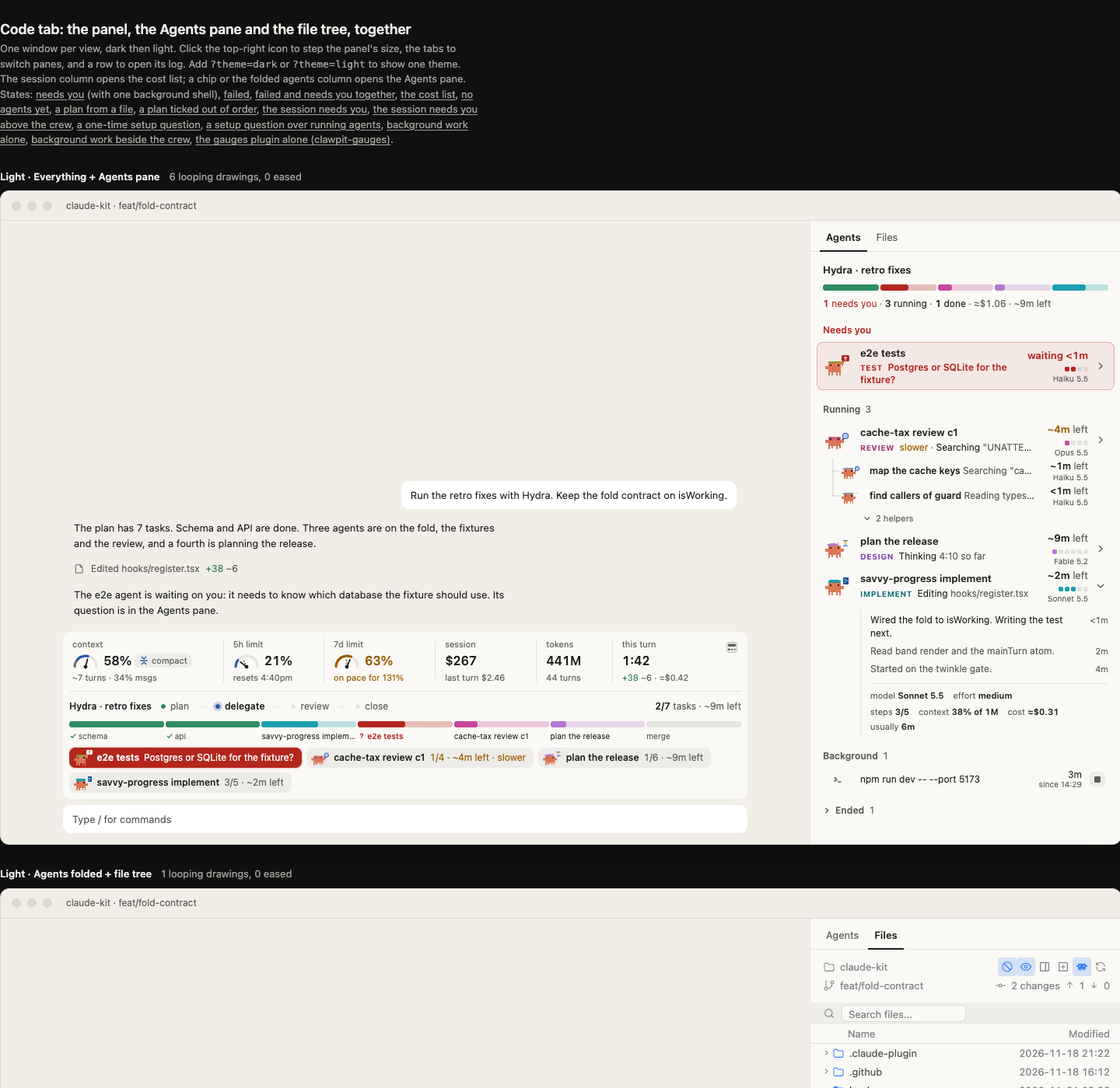
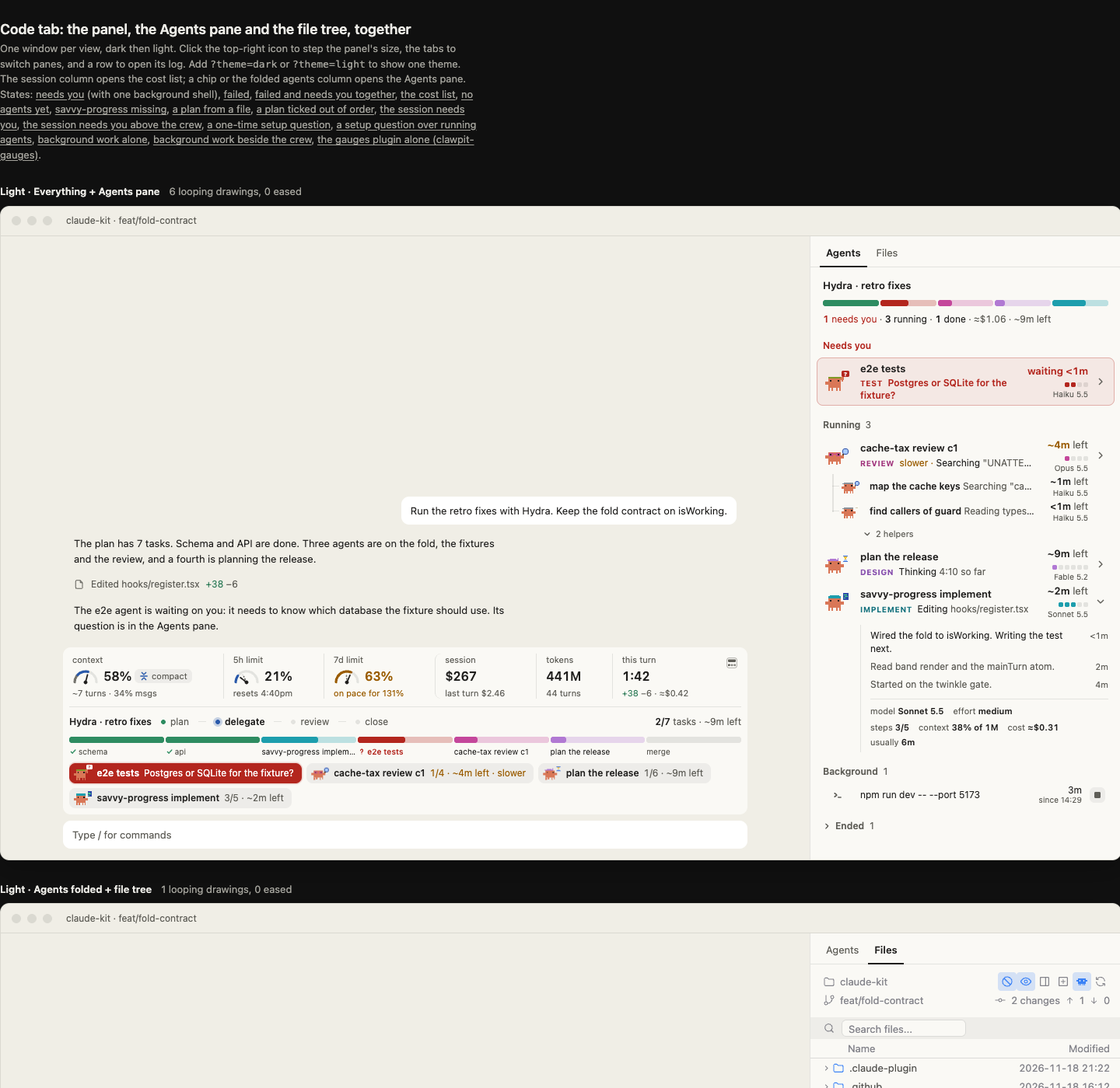
pane: say how to install savvy-progress when it is missing

diff --git a/design/mockups-all.html b/design/mockups-all.html
@@ -196,7 +196,7 @@ body{margin:0;background:var(--page);color:var(--ink);font:14px/1.5 -apple-syste
 /* BUILD Empty pane: the title in fg, the hint muted */
 .empty{display:flex;flex-direction:column;align-items:center;padding:24px 0;font-size:13px}
 .ofq{display:flex;flex-direction:column;gap:4px;height:56px;box-sizing:border-box;padding:6px 8px;border-radius:8px;background:var(--wash);font-size:12px;line-height:16px}.ofq .m{font-size:11px}.ofb{display:flex;gap:8px;margin:6px 0 0}.ofb button{all:unset;height:24px;border-radius:6px;background:var(--wash);color:var(--fg);font-size:12px;font-weight:600;text-align:center;cursor:pointer}.ofb button:first-child{width:42px}.ofb button+button{width:38px}
-.empty .m{font-size:12px}
+.empty .m{font-size:12px}.empty code{font:11px/16px ui-monospace,SFMono-Regular,Menlo,monospace;margin-top:2px;text-align:center}
 /* ALIGN F12: specimen sheet for the failed chip's timer and the A/B row. A legend, not a surface of the app. */
 .spec{width:1440px;margin:0 auto;box-sizing:border-box;border-radius:12px;border:1px solid var(--tr);background:var(--g);color:var(--fg);padding:12px;display:grid;grid-template-columns:repeat(2,minmax(0,1fr));gap:12px;font:13px/18px -apple-system,BlinkMacSystemFont,system-ui,sans-serif}
 .spec ::selection{background:color-mix(in srgb,var(--ac) 35%,transparent)}
@@ -232,7 +232,7 @@ body{margin:0;background:var(--page);color:var(--ink);font:14px/1.5 -apple-syste
 <body>
 <div class="doc">
 <h1>Code tab: the panel, the Agents pane and the file tree, together</h1>
-<p>One window per view, dark then light. Click the top-right icon to step the panel's size, the tabs to switch panes, and a row to open its log. Add <code>?theme=dark</code> or <code>?theme=light</code> to show one theme. The session column opens the cost list; a chip or the folded agents column opens the Agents pane. States: <a href="?">needs you</a> (with one background shell), <a href="?state=failed">failed</a>, <a href="?state=both">failed and needs you together</a>, <a href="?state=costs">the cost list</a>, <a href="?state=empty">no agents yet</a>, <a href="?state=fileplan">a plan from a file</a>, <a href="?state=outoforder">a plan ticked out of order</a>, <a href="?state=session">the session needs you</a>, <a href="?state=sessionCrew">the session needs you above the crew</a>, <a href="?state=offer">a one-time setup question</a>, <a href="?state=offerCrew">a setup question over running agents</a>, <a href="?state=background">background work alone</a>, <a href="?state=backgroundCrew">background work beside the crew</a>, <a href="?state=gauges">the gauges plugin alone (clawpit-gauges)</a>.</p>
+<p>One window per view, dark then light. Click the top-right icon to step the panel's size, the tabs to switch panes, and a row to open its log. Add <code>?theme=dark</code> or <code>?theme=light</code> to show one theme. The session column opens the cost list; a chip or the folded agents column opens the Agents pane. States: <a href="?">needs you</a> (with one background shell), <a href="?state=failed">failed</a>, <a href="?state=both">failed and needs you together</a>, <a href="?state=costs">the cost list</a>, <a href="?state=empty">no agents yet</a>, <a href="?state=nosavvy">savvy-progress missing</a>, <a href="?state=fileplan">a plan from a file</a>, <a href="?state=outoforder">a plan ticked out of order</a>, <a href="?state=session">the session needs you</a>, <a href="?state=sessionCrew">the session needs you above the crew</a>, <a href="?state=offer">a one-time setup question</a>, <a href="?state=offerCrew">a setup question over running agents</a>, <a href="?state=background">background work alone</a>, <a href="?state=backgroundCrew">background work beside the crew</a>, <a href="?state=gauges">the gauges plugin alone (clawpit-gauges)</a>.</p>
 </div>
 <div id="root"></div>
 <script>
@@ -292,8 +292,8 @@ if(FAILED){
  Object.assign(AG('rev'),{tries:3,act:'Retrying',tgt:'the diff against main',log:[['Try 3 failed: 2 hunks still rejected.','<1m'],['Helper "map the cache keys" failed after 0:48: no "cacheKey" in src/','<1m'],['Try 2 failed: rebased, same hunks.','1m'],['Try 1 failed: the diff does not apply.','2m'],['Opened the cache-tax diff.','3m']]});
  Object.assign(AG('rev').kids[0],{prop:'fail',why:'no "cacheKey" in src/'});
  if(STATE==='both')Object.assign(AG('pln'),{prop:'wait',q:'Ship the release notes in this PR, or after it?',wait:'<1m'})}
-/* BUILD Empty pane (?state=empty): no agents and no plan */
-const EMPTY=STATE==='empty';if(EMPTY){A.length=0;ENDED.length=0}
+/* BUILD Empty pane (?state=empty): no agents and no plan; ?state=nosavvy: with no savvy-progress to read, the hint names it and the command to install it */
+const NOSAVVY=STATE==='nosavvy',EMPTY=STATE==='empty'||NOSAVVY;if(EMPTY){A.length=0;ENDED.length=0}
 /* BUILD Gauges alone (?state=gauges, 2026-11-23): the clawpit-gauges plugin, clawpit's panel with no crew and no Agents pane; the session column presses nothing and the toggle's words name no agents */ const GAUGES=STATE==='gauges';if(GAUGES){A.length=0;ENDED.length=0}
 /* BUILD Session need (?state=session alone, ?state=sessionCrew above the crew): the main session waits on you. A "Claude" row in Needs you, not an agent: no crew-bar segment, no press, no chevron (its slot kept). */ const SESSION=STATE==='session'||STATE==='sessionCrew',SQ='Ship the schema change behind a flag, or migrate every row now?';if(STATE==='session'){A.length=0;ENDED.length=0}
 /* BUILD One-time setup (?state=offer alone, ?state=offerCrew over two running agents): an unasked /config choice row from clawpit or savvy-progress, one at a time, directly under the head; hidden while anything needs you or has failed; Yes and No are equal wash chips, no later. */ const OFFER=STATE==='offer'||STATE==='offerCrew',OQ='Light Needs you when this session asks you a question?';if(STATE==='offer'){A.length=0;ENDED.length=0}if(STATE==='offerCrew'){A.splice(0,A.length,...A.filter(a=>a.id==='imp'||a.id==='pln'));ENDED.length=0}
@@ -392,7 +392,7 @@ const costs=()=>{const n=TURNS.length,list=TURNS.map((v,i)=>[ST.turns-(n-1-i),v]
  return `<div class="pane costs"><button class="back" data-act="crew" aria-label="Back to the agents">${ICON.small}Agents</button><div class="t">Session cost</div><div class="tot tn"><b>$267</b><span class="m"> · ${ST.turns} turns</span></div><div class="sec">Last ${n} turns</div><div class="cl tn">${list.map(([t,v])=>`<span>turn ${t}</span><span>$${v.toFixed(2)}</span>`).join('')}</div></div>`};
 function pane(c,w){if(w.view==='costs')return costs();
  const ofr=OFFER?`<div class="ofr"><div class="ofq" role="img" aria-label="One-time setup: ${OQ}"><span class="m">One-time setup</span><span>${OQ}</span></div><div class="ofb"><button aria-label="Yes: Session needs you set to both. This opts into about 40 schema tokens; the progress field takes effect from the next session.">Yes</button><button aria-label="No: Session needs you set to off">No</button></div></div>`:'';
- if(!A.length&&!SESSION&&!BG.length)return `<div class="pane">${ofr}<div class="empty">${crab('explore','none',0,c,L)}<span style="margin-top:12px">No agents yet</span><span class="m">Agents you start show up here</span></div></div>`;
+ if(!A.length&&!SESSION&&!BG.length)return `<div class="pane">${ofr}<div class="empty">${crab('explore','none',0,c,L)}<span style="margin-top:12px">No agents yet</span>${NOSAVVY?'<span class="m">savvy-progress is not installed</span><code>/plugin install savvy-progress <wbr>--marketplace nycom/claude-kit</code>':'<span class="m">Agents you start show up here</span>'}</div></div>`;
  const need=A.filter(a=>a.prop==='wait'),bad=A.filter(a=>a.prop==='fail'),run=A.filter(a=>!alertOf(a)).sort((x,y)=>hard(y)-hard(x)),order=[...need,...bad,...run];
  const crew=[...ENDED.map(()=>'<span class="d"></span>'),...order.map(a=>seg({a},c))].join('');
  const sum=`${need.length||SESSION?`<span style="color:${c.er}"><b class="tn">${need.length+(SESSION?1:0)}</b> needs you</span><span class="m"> · </span>`:''}${bad.length?`<span style="color:${c.er}"><b class="tn">${bad.length}</b> failed</span><span class="m"> · </span>`:''}<b class="tn">${run.length}</b> running<span class="m"> · </span><b class="tn">${ENDED.length}</b> done<span class="m"> · ≈$${COST.toFixed(2)}${A.length||!BG.length?` · ${LEFT}`:''}</span>`;

diff --git a/plugin/hooks/pane/draw.ts b/plugin/hooks/pane/draw.ts
@@ -11,9 +11,9 @@ import { OFFER_NOTE } from '../setup'
 
 export type { El }
 // background: the rows to show, savvy's shells, monitors, crons and wakeups; hour12 and offsetMin: how their clock times read
-// (absent: 24 h, UTC).
+// (absent: 24 h, UTC). savvyMissing: no savvy-progress to read, so the empty state says how to install it.
 export type PaneView = { crew: Crew; ui: Ui; loops: LoopPlan; columns: number; now: number; session: SessionStat; still?: boolean; offer?: Offer | null; showCost?: boolean
-  background?: BgRow[]; hour12?: boolean; offsetMin?: number }
+  background?: BgRow[]; hour12?: boolean; offsetMin?: number; savvyMissing?: boolean }
 
 // The row's four columns: crab 38, title and activity, the reading column (88px at most, see readEdge), the chevron.
 const CRAB = 38, READ = 88, CHEV = 16, GAP = 10, PAD = 8, HELPER_CRAB = 50, INDENT = 14, READ_GAP = 6, TITLE_X = CRAB + GAP
@@ -447,7 +447,11 @@ const bgRow = (r: BgRow, W: number, now: number, rule: boolean, c: Clock): El =>
   return { type: 'Box', props: { flexDirection: 'row' }, children: [row, stop] }
 }
 
-const drawItem = (item: PaneItem, W: number, now: number, still: boolean, edge = READ, cost = true, clock = UTC24): El => {
+// What the empty state says to run without savvy-progress: savvy alone, since installing clawpit again from claude-kit would
+// enable a second clawpit beside clawpit@clawpit.
+export const INSTALL_SAVVY = '/plugin install savvy-progress --marketplace nycom/claude-kit'
+
+const drawItem = (item: PaneItem, W: number, now: number, still: boolean, edge = READ, cost = true, clock = UTC24, savvyMissing = false): El => {
   switch (item.kind) {
     case 'head': return head(item.crew, W, cost)
     case 'section': return section(item, W)
@@ -463,8 +467,13 @@ const drawItem = (item: PaneItem, W: number, now: number, still: boolean, edge =
       alt: `${item.count} more ${item.section === 'background' ? 'background tasks' : 'agents'}`, width: n(W), height: 22 }, false)
     case 'empty': {
       const [cw, ch] = SIZE.crab.L, x = (W - cw) / 2
-      const say = text(W / 2, 76, 'fg', 13, 'No agents yet', { anchor: 'middle' }) + text(W / 2, 94, 'muted', 12, 'Agents you start show up here', { anchor: 'middle' })
-      return image('empty', { source: withCrab(doc(W, 104, say), crab({ role: 'explore', prop: 'none', walk: false, size: 'L' }), x, 52 - ch), alt: 'No agents yet. Agents you start show up here', width: n(W), height: 104 }, false)
+      // The command goes to two lines, at its option, where the body is too narrow (6.7 px a character, as the drawer's error line).
+      const cmd = !savvyMissing ? [] : INSTALL_SAVVY.length * 6.7 <= W ? [INSTALL_SAVVY] : INSTALL_SAVVY.split(/ (?=--)/)
+      const hint = savvyMissing ? 'savvy-progress is not installed' : 'Agents you start show up here', h = 104 + cmd.length * 16
+      const say = text(W / 2, 76, 'fg', 13, 'No agents yet', { anchor: 'middle' }) + text(W / 2, 94, 'muted', 12, hint, { anchor: 'middle' })
+        + cmd.map((c, k) => text(W / 2, 112 + k * 16, 'fg', 11, c, { anchor: 'middle', family: MONO })).join('')
+      return image('empty', { source: withCrab(doc(W, h, say), crab({ role: 'explore', prop: 'none', walk: false, size: 'L' }), x, 52 - ch),
+        alt: `No agents yet. ${hint}${cmd.length ? `: ${INSTALL_SAVVY}` : ''}`, width: n(W), height: h }, false)
     }
   }
 }
@@ -504,7 +513,7 @@ export const paneTree = (v: PaneView): El => {
   if (v.ui.view === 'costs') return { type: 'Box', props: { key: 'clawpit-pane', flexDirection: 'column' }, children: costsView(v.session, W) }
   const items = paneLayout(v.crew, v.ui, v.loops, itemCost, v.offer, v.background), edge = readEdge(items, W, v.now)
   const clock: Clock = { hour12: !!v.hour12, offsetMin: Number.isFinite(v.offsetMin) ? v.offsetMin! : 0 }
-  return { type: 'Box', props: { key: 'clawpit-pane', flexDirection: 'column' }, children: items.map(i => drawItem(i, W, v.now, !!v.still, edge, v.showCost !== false, clock)) }
+  return { type: 'Box', props: { key: 'clawpit-pane', flexDirection: 'column' }, children: items.map(i => drawItem(i, W, v.now, !!v.still, edge, v.showCost !== false, clock, v.savvyMissing)) }
 }
 
 // The measuring bench: `count` walking M crabs, past the loop budget. Eased keeps the walk's size and keyframes on an

diff --git a/plugin/hooks/register.tsx b/plugin/hooks/register.tsx
@@ -79,6 +79,7 @@ let bench: { count: number; eased: boolean } | null = null
 let offers: Offer[] = []                       // the /config rows still to ask about once; the pane shows the first
 let showCost = true                             // false when the savvy-progress showCost row reads false; a missing row shows
 let hour12 = false                              // clock times in 12 h: Claude Code's timeFormat row, else the OS locale's hour cycle
+let savvyRows = true                            // /config lists a savvy-progress row; true until the list says otherwise
 let refused = new Set<string>()                 // keys a write was refused for, kept in the store as offerRefused:<key>
 
 // The engine blanks Clients past 100,000 characters; one bench crab's props are about 1,750.
@@ -89,7 +90,7 @@ const reset = () => {
   turn = emptyTurn(); tests = null; ctx = {}; ctxHistory = []; limits = []; settles = {}; planSince = null; needShown = false
   bgShown = false; stopped = new Map(); promptAt = 0; stopping = new Set(); bgLatest = []
   ticker?.cancel(); ticker = null; period = 0; wake?.cancel(); wake = null; paneAsked = false; benchReg = null; setupReg = null; bench = null
-  offers = []; refused = new Set(); showCost = true; hour12 = false
+  offers = []; refused = new Set(); showCost = true; hour12 = false; savvyRows = true
 }
 
 const usdOf = (u: { cost?: { usd: number } }) => u.cost?.usd ?? null
@@ -154,10 +155,11 @@ const readOffers = async ($: EngineInterface) => {
   try {
     const rows = await $.config.list()
     showCost = rows.find(r => r.key === 'savvy-progress.showCost')?.value !== false
+    savvyRows = rows.some(r => r.key.startsWith('savvy-progress.'))
     const tf = rows.find(r => r.key === 'timeFormat')?.value
     hour12 = tf === '12-hour' ? true : tf === '24-hour' ? false : localeHour12()
     offers = offersOf(rows.filter(r => !refused.has(r.key)))
-  } catch { errors += 1; offers = []; showCost = true; hour12 = localeHour12() }
+  } catch { errors += 1; offers = []; showCost = true; hour12 = localeHour12(); savvyRows = true }
 }
 
 // A Yes or No press on the offer shown: written as if in /config. A refused or rejected write is said once and not asked again.
@@ -593,6 +595,12 @@ const zoneOf = (now: number) => {
   try { const m = -new Date(now).getTimezoneOffset(); return Number.isFinite(m) ? m : 0 } catch { return 0 }
 }
 
+// savvy-progress writes its stage words at boot, an empty list included, so one never written means no savvy ran; an older
+// one that writes none still lists its settings. An unreadable atom or list says nothing is missing.
+const savvyMissing = async ($: EngineInterface) => {
+  try { return !savvyRows && (await $.state.get({ plugin: 'savvy-progress', key: 'stages' } as const)).version === 0 } catch { errors += 1; return false }
+}
+
 // Both surfaces from one read of the atoms and module memory, and one crew.
 export const view = async ($: EngineInterface, bodyColumns: number): Promise<{ panel: PanelView; pane: PaneView }> => {
   const u = await read($, ui), f = await read($, flow), runs = await read($, agents)
@@ -616,6 +624,6 @@ export const view = async ($: EngineInterface, bodyColumns: number): Promise<{ p
   return {
     panel: { stats: s, crew, ui: u, loops, busy, armed, bodyColumns, now, settles: animations ? moving(settles, now) : {}, still: !animations,
       planGrow: animations && planSince !== null && now - planSince < MOTION.fillMs },
-    pane: { crew, ui: u, loops, columns: bodyColumns, now, session: s.session, still: !animations, offer: offers[0] ?? null, showCost, background: shownBg, hour12, offsetMin: zoneOf(now) },
+    pane: { crew, ui: u, loops, columns: bodyColumns, now, session: s.session, still: !animations, offer: offers[0] ?? null, showCost, background: shownBg, hour12, offsetMin: zoneOf(now), savvyMissing: await savvyMissing($) },
   }
 }

diff --git a/plugin/tests/pane-draw.test.ts b/plugin/tests/pane-draw.test.ts
@@ -1,6 +1,6 @@
 import { test, expect } from 'claude-code/testing'
 import type { CrewAgent } from '../types'
-import { paneTree, type El } from '../hooks/pane/draw'
+import { INSTALL_SAVVY, paneTree, type El } from '../hooks/pane/draw'
 import { ENGINE_MAX, HOST_MAX } from '../hooks/pane/layout'
 import { pickLoops } from '../hooks/loops'
 import { modelLabel, textWidth } from '../hooks/text'
@@ -277,6 +277,21 @@ test('pane: a reading column with no estimate reads the clock and a muted so far
   const row = find(paneTree(paneViewOf('manyAgents')), 'row-m0')!
   expect(words(row)).toContain('0:10 so far'); expect(src(row)).toMatch(/<tspan class="fg" font-weight="600">0:10<\/tspan><tspan class="muted"> so far</)
   expect(String(inner(row).alt)).toContain('0:10 so far')
+})
+
+test('pane: without savvy-progress the empty state names it and how to install it, the command never cut', () => {
+  const at = (columns: number) => paneTree(paneViewOf('emptyPane', { columns, savvyMissing: true })).children![0] as El
+  for (const columns of [28, 30, 36, 52]) {
+    const e = at(columns), [title, hint, ...cmd] = pieces(e)
+    expect(title).toEqual(['fg', 'No agents yet']); expect(hint).toEqual(['muted', 'savvy-progress is not installed'])
+    expect(cmd.map(([, p]) => p).join(' ')).toBe(INSTALL_SAVVY)
+    // Menlo's 11 px advance is 6.62: every command line fits the body.
+    for (const [cls, p] of cmd) { expect(cls).toBe('fg'); expect(p.length * 6.62).toBeLessThanOrEqual(columns * 8.5) }
+    expect(inner(e).alt).toBe(`No agents yet. savvy-progress is not installed: ${INSTALL_SAVVY}`); expect(src(e)).not.toContain('animation')
+  }
+  expect(pieces(at(28)).length).toBe(4); expect(pieces(at(52)).length).toBe(3)
+  expect(paneTree(paneViewOf('emptyPane', { savvyMissing: false }))).toEqual(paneTree(paneViewOf('emptyPane')))
+  expect(paneTree(paneViewOf('hydra', { savvyMissing: true }))).toEqual(paneTree(paneViewOf('hydra')))
 })
 
 test('pane: the empty state says how agents arrive', () => {

diff --git a/plugin/tests/pane-hook.test.tsx b/plugin/tests/pane-hook.test.tsx
@@ -1,5 +1,6 @@
 import { test, expect, mock } from 'claude-code/testing'
 import type { TestBody } from 'claude-code/testing'
+import { INSTALL_SAVVY } from '../hooks/pane/draw'
 
 type $T = Parameters<TestBody>[0]
 type OnT = Parameters<TestBody>[1]
@@ -503,6 +504,33 @@ test('pane hook: with no $.config (an older CLI) the setup row never shows and n
   const ui = await pane($)
   expect(await offerShown(ui)).toBeUndefined()
   expect((await svgAlt(ui, /^No agents yet/))?.alt).toBe('No agents yet. Agents you start show up here')
+  await ui.unmount()
+})
+
+// savvy-progress's boot: it writes its stage words (an empty list when the setting is empty) and nothing else.
+const booting = {
+  name: 'savvy-progress',
+  register(on: OnT) { on('tool.call', { tool: 'savvy-boot' }, async $ => { await $.state.set({ plugin: 'savvy-progress', key: 'stages' }, []); return { result: {} } as never }) },
+}
+const hintOf = async (ui: Pane) => (await svgAlt(ui, /^No agents yet/))?.alt
+const EMPTY = 'No agents yet. Agents you start show up here', MISSING = `No agents yet. savvy-progress is not installed: ${INSTALL_SAVVY}`
+
+test('pane hook: with no savvy-progress atom and no savvy-progress setting the pane says so, until savvy writes one', { plugins: [booting] }, async ($, on) => {
+  setup(on)
+  on('config.list', () => ({ value: [] }) as never)
+  await start($)
+  const ui = await pane($)
+  expect(await hintOf(ui)).toBe(MISSING)
+  await $.tool.call({ tool: 'savvy-boot' } as never)
+  expect(await hintOf(ui)).toBe(EMPTY)
+  await ui.unmount()
+})
+
+test('pane hook: a savvy-progress with settings but no atom yet (an older one) gets no install hint', async ($, on) => {
+  setup(on); configRows(on, ['off', 'both'])
+  await start($)
+  const ui = await pane($)
+  expect(await hintOf(ui)).toBe(EMPTY)
   await ui.unmount()
 })
 

diff --git a/tests/visual/pane.spec.ts b/tests/visual/pane.spec.ts
@@ -27,6 +27,13 @@ for (const s of OFFER) for (const theme of ['dark', 'light'] as const) for (cons
     await expect(page).toHaveScreenshot(`pane-${s}-${theme}-${w}.png`, { fullPage: true, maxDiffPixels: 0 })
   })
 
+// The empty pane with no savvy-progress to read, at 41 cells as well: the install command on two lines, then on one.
+for (const theme of ['dark', 'light'] as const) for (const w of [28, 30, 36, 41, 52] as const)
+  test(`pane: savvyMissing, ${theme}, ${w} cells @shot`, async ({ page }) => {
+    await show(page, paneTree(paneViewOf('emptyPane', { columns: w, savvyMissing: true })), { surface: 'pane', widthCells: w, theme })
+    await expect(page).toHaveScreenshot(`pane-savvyMissing-${theme}-${w}.png`, { fullPage: true, maxDiffPixels: 0 })
+  })
+
 // Background work alone, then beside the running crew, at 41 cells as well.
 const BACKGROUND = ['background', 'backgroundCrew'] as const
 for (const s of BACKGROUND) for (const theme of ['dark', 'light'] as const) for (const w of [28, 30, 36, 41, 52] as const)

diff --git a/docs/decisions/LOCKED.md b/docs/decisions/LOCKED.md
@@ -127,6 +127,7 @@ Taken by the maintainer while the build ran, after seeing each behaviour drawn.
 - **Takeover outside the terminal:** clawpit takes over from savvy-progress in every session but a terminal one, from its start, because a session one session starts has no surface until the desktop attaches, often after its first agent. Accepted limit: a session opened only in VS Code or on mobile gets no savvy pane auto-open and an empty clawpit pane; savvy's band still draws there. Decided by the maintainer 2026-11-22.
 - **Background section (decided 2026-11-23; redrawn the same day as "Now and next"):** savvy-progress's background work (shells, monitors, crons, wakeups) gets its own section in the Agents pane. This amends "Sections" (both lists above): Needs you, then Failed, then Running, then Background, then Ended. It reverses M4, which kept background work in savvy's `/agents-info` pane only. Done and stopped rows hide; savvy's own pane (`/agents-info savvy`) keeps the history. **Order:** failed rows first, on the needs-you tint, with a cross, the word "failed" in er and "after 1m", until the next composer or bridge prompt, with no Stop; then running rows (shells, monitors), newest first; then, under a 1 px hairline across the row and its Stop, the waiting rows (crons, wakeups), soonest due first, a cron with no next time last by title. **Readings,** on the agents' reading edge: running work reads back, the age in whole minutes over "since 14:20"; waiting work reads forward, "in 7m" (or "due") over "at 14:39"; a cron with no next time reads its schedule abbreviated ("every 5m", "every 10m", "hourly", "every 2h", "daily"; the full wording in the tooltip and the alt, the kind word where even that will not fit), and a cron with a next time reads "in 4m" over its schedule. The kind word is not in the row; the icon (shell, monitor, a repeat cycle for a cron, an hourglass for a wakeup) and the alt name it. Narrow, the second line drops first. Clock times follow Claude Code's `timeFormat` setting, else the locale's hour cycle, in the machine's zone; a change in /config shows at the next render. **Track:** a wakeup draws a still 2 px track under its title to the reading, filled in muted by the share of its wait used (accent stays for the phase, the dial, focus and the primary button); it moves only on the minute repaint. A cron draws none until savvy gives its period. **Stop:** a 20 px wash button, radius 6, with the standard filled square, centred on the agents' chevron; its press is the whole 28 px slot right of the row (a failed row's slot only ends its tint) (TaskStop, CronDelete, or ScheduleWakeup's stop, which ends every wakeup, with a consent line; an error is toasted and the row stays, except the engine's "already gone" answer, which hides the row without a toast (decided 2026-11-23); a second press while a stop runs does nothing). **Counts:** the section header reads the active count and names the failed apart, "Background 4 · 1 failed" ("Background · 1 failed" with only failed rows), as the folded column does; both alts state both numbers. The full-size chip names what fires next instead of the waiting count, "2 running · wakeup in 7m · 1 failed" (or "1 waiting" with no timed row), so its number can differ from the header and the column on purpose. **Reach:** with no agents, background work reaches the pane through the folded column (labelled "background", the next kind's icon in the crab's slot, the cross in er when only failed rows show, the active count, then "1 failed · next 7m"), the one-line row (that icon, then "4 · next 7m · 1 failed") and, at full size, the chip; each opens the pane. Where the panel has no room for every clause, they drop whole from the right and the failed clause stays: the next clause goes first, then the count shortens or goes, and at one line the icon stands bare last. The pane's head is drawn as it is with no agents. Background work is not an agent: it is in no count, the crew bar, the alerts, the loops or the ETA. Rows are still (no loop) and read in whole minutes, so the pane repaints once a minute while a row runs or a wakeup counts down.
 - **One Agents pane:** on the desktop, `/agents-info` opens clawpit's Agents pane instead of savvy-progress's, so the two tabs named Agents become one; `/agents-info savvy` still opens savvy-progress's pane (its ended background history, planned rows and /status line). Sessions with no desktop attached are unchanged. Decided by the maintainer 2026-11-23.
+- **Savvy missing:** with no savvy-progress to read, the empty pane reads "savvy-progress is not installed" (muted) in place of "Agents you start show up here", then, in monospace in fg, `/plugin install savvy-progress --marketplace nycom/claude-kit`, on one line where it fits and on two, broken at its option, where not; never cut. It names savvy-progress and not clawpit, because installing clawpit again from claude-kit would leave `clawpit@claude-kit` and `clawpit@clawpit` both enabled. It shows only while savvy-progress has written no `stages` atom (it writes one at boot) and /config lists no setting of it; an unreadable list shows nothing. Not pressable. With savvy-progress present nothing changes. Decided by the maintainer 2026-11-25.
 
 ## Gauges alone and the panel review: decided 2026-11-23
 
